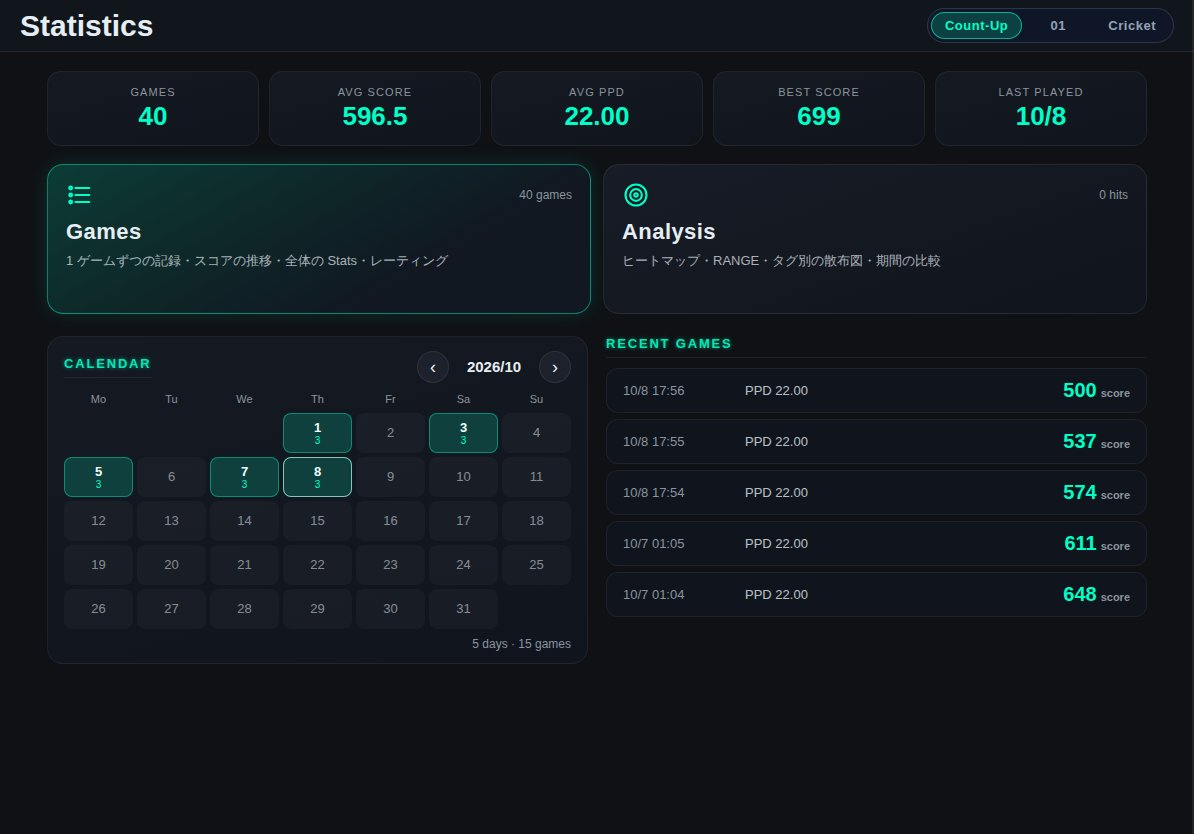
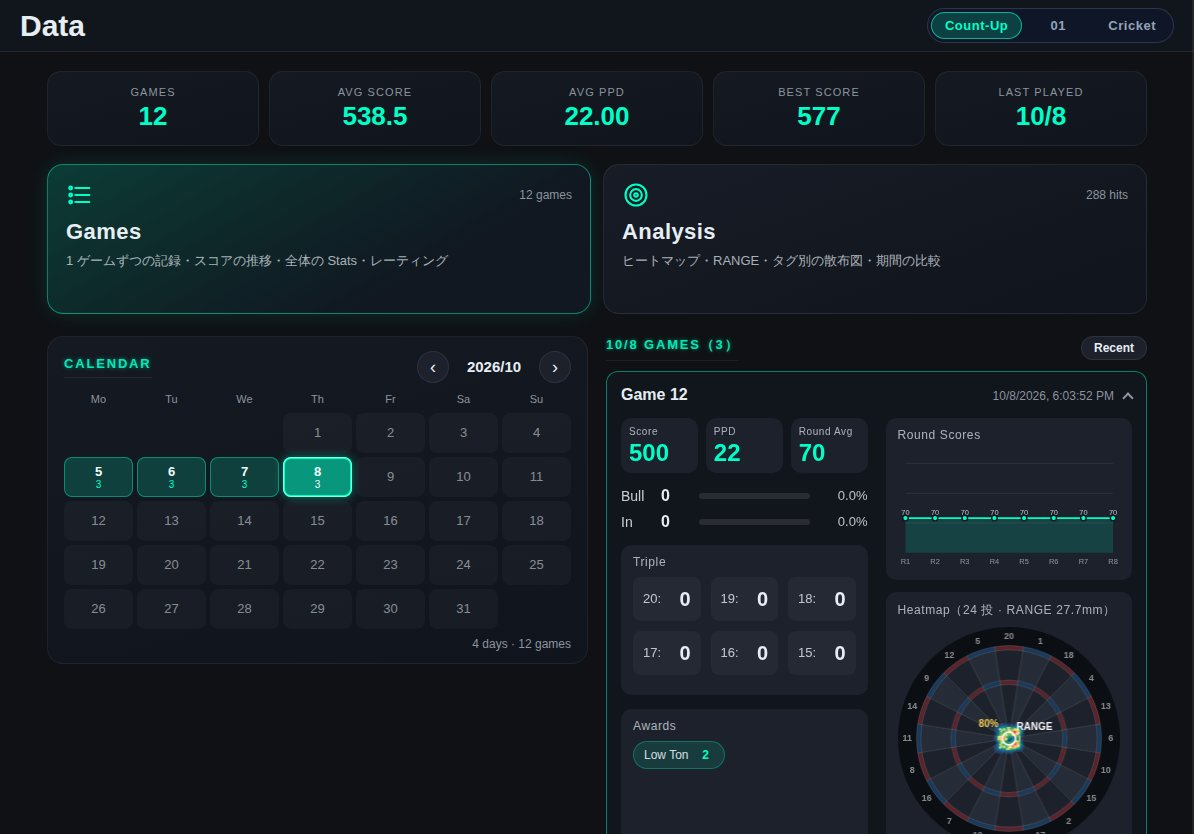
データ画面のカレンダーで日付を押すとその日のゲームを出す。見出しを Data に
練習した日を押すと、Recent Games の代わりにその日のゲームを Games 画面と同じ履歴カードで出す。
もう一度押すか Recent で戻す。見出しを Statistics から Data に変更（メニューの名前に合わせる）。

Claude-Session: https://claude.ai/code/session_01T46tqjmmnQtBio5EEUgC8y

diff --git a/js/data/data_hub.js b/js/data/data_hub.js
@@ -185,7 +185,7 @@ function renderDataHub() {
 
     <div class="data-hub-bottom">
       ${renderDataHubCalendar(type)}
-      ${renderDataHubRecent(type)}
+      ${dataHubSelectedDay ? renderDataHubDay(type) : renderDataHubRecent(type)}
     </div>
 
     ${type === "countup" ? "" : '<p class="data-hub-note">Analysis は、今は Count-Up の記録だけを集計しています。</p>'}
@@ -195,6 +195,27 @@ function renderDataHub() {
   hub.querySelectorAll("[data-hub-view]").forEach(btn => {
     btn.addEventListener("click", () => openDataView(btn.dataset.hubView))
   })
+
+  // 選んだ日のゲーム（Games 画面と同じ履歴カード。押すと開く）
+  if (dataHubSelectedDay) fillDataHubDay(type)
+
+  hub.querySelectorAll("[data-hub-day]").forEach(btn => {
+    btn.addEventListener("click", () => {
+      dataHubSelectedDay = dataHubSelectedDay === btn.dataset.hubDay ? null : btn.dataset.hubDay
+      renderDataHub()
+      // 縦に並んでいるとき（スマホ縦など）は、出したゲームの一覧が見えるところまで送る
+      const list = document.getElementById("dataHubDay")
+      if (list && !document.body.classList.contains("landscape")) list.scrollIntoView({ block: "start", behavior: "smooth" })
+    })
+  })
+
+  const close = hub.querySelector("[data-hub-day-close]")
+  if (close) {
+    close.addEventListener("click", () => {
+      dataHubSelectedDay = null
+      renderDataHub()
+    })
+  }
 
   hub.querySelectorAll("[data-hub-month]").forEach(btn => {
     btn.addEventListener("click", () => {
@@ -208,8 +229,49 @@ function renderDataHub() {
 // ===============================
 // ===== カレンダー ================
 // ===============================
-// 選んでいるゲームを練習した日に印を付ける（その日のゲーム数を小さく出す）。今は見るだけ。‹ › で月を切り替える
+// 選んでいるゲームを練習した日に印を付ける（その日のゲーム数を小さく出す）。‹ › で月を切り替える。
+// 練習した日を押すと、Recent Games の代わりにその日のゲーム（履歴カード）を出す。もう一度押すか Recent で戻す
 let dataHubCalendarMonth = null
+// カレンダーで選んだ日（"YYYY-MM-DD"）。選んでいる間は Recent Games の代わりにその日のゲームを出す
+let dataHubSelectedDay = null
+
+function getDataHubDayKey(time) {
+  const d = new Date(time)
+  return `${d.getFullYear()}-${String(d.getMonth() + 1).padStart(2, "0")}-${String(d.getDate()).padStart(2, "0")}`
+}
+
+// 選んだ日のゲームの一覧（中身は fillDataHubDay() で入れる）
+function renderDataHubDay(type) {
+  const sessions = getDataHubSessions(type).filter(s => getDataHubDayKey(s.date) === dataHubSelectedDay)
+  const [, m, d] = dataHubSelectedDay.split("-").map(Number)
+  return `
+    <section class="data-hub-recent data-hub-day" id="dataHubDay">
+      <div class="data-hub-day-top">
+        <h3 class="data-hub-section-title">${m}/${d} Games（${sessions.length}）</h3>
+        <button type="button" class="data-hub-day-close" data-hub-day-close>Recent</button>
+      </div>
+      <div id="dataHubDayList" class="data-hub-day-list"></div>
+    </section>
+  `
+}
+
+// 選んだ日のゲームを、Games 画面と同じ履歴カードで出す（Game の番号は全体の通し番号。新しい順）
+function fillDataHubDay(type) {
+
+  const box = document.getElementById("dataHubDayList")
+  if (!box) return
+
+  const all = getDataHubSessions(type)
+  const createHtml = type === "01"
+    ? createZeroOneCardHtml
+    : type === "cricket" ? createCricketCardHtml : createSessionCardHtml
+
+  all
+    .map((session, index) => ({ session, number: index + 1 }))
+    .filter(item => getDataHubDayKey(item.session.date) === dataHubSelectedDay)
+    .reverse()
+    .forEach(item => box.appendChild(createSessionCardElement(createHtml(item.session, item.number))))
+}
 
 function getDataHubSessions(type) {
   if (type === "01") return typeof readZeroOneSessions === "function" ? readZeroOneSessions() : []
@@ -254,9 +316,14 @@ function renderDataHubCalendar(type) {
     if (count) cls.push("played")
     if (count >= 5) cls.push("many")
     if (isThisMonth && today.getDate() === d) cls.push("today")
-    cells += `<span class="${cls.join(" ")}"${count ? ` title="${count} games"` : ""}>` +
-      `<span class="data-hub-cal-num">${d}</span>` +
-      `${count ? `<span class="data-hub-cal-count">${count}</span>` : ""}</span>`
+    const key = `${year}-${String(month + 1).padStart(2, "0")}-${String(d).padStart(2, "0")}`
+    if (key === dataHubSelectedDay) cls.push("selected")
+    const inner = `<span class="data-hub-cal-num">${d}</span>` +
+      `${count ? `<span class="data-hub-cal-count">${count}</span>` : ""}`
+    // 練習した日は押すとその日のゲームを出す
+    cells += count
+      ? `<button type="button" class="${cls.join(" ")}" data-hub-day="${key}" aria-label="${month + 1}/${d} ${count} games">${inner}</button>`
+      : `<span class="${cls.join(" ")}">${inner}</span>`
   }
 
   return `
@@ -366,11 +433,22 @@ function openDataView(mode) {
 // ヘッダーのゲームの切り替え：トップを出しているときは、トップの中身だけ描き直す
 const setDataGameTypeForViews = typeof setDataGameType === "function" ? setDataGameType : null
 window.setDataGameType = function (type) {
+  if (dataHubOpen && type !== dataGameType) dataHubSelectedDay = null
   if (setDataGameTypeForViews) setDataGameTypeForViews(type)
   if (dataHubOpen) renderDataHub()
 }
 
 function initDataHub() {
+  // トップの履歴カード（選んだ日のゲーム）も、押すと開く（data_loader.js の toggleSessionCard()）
+  const hub = document.getElementById("dataHub")
+  if (hub && !hub.dataset.ready) {
+    hub.dataset.ready = "1"
+    hub.addEventListener("click", e => {
+      const card = e.target instanceof Element ? e.target.closest(".session-card") : null
+      if (card && hub.contains(card)) toggleSessionCard(card)
+    })
+  }
+
   const back = document.getElementById("dataHubBack")
   if (back && !back.dataset.ready) {
     back.dataset.ready = "1"

diff --git a/css/layout/lay_data.css b/css/layout/lay_data.css
@@ -2173,18 +2173,21 @@ body.page-data.phone.portrait main.data-container {
   タップで .is-expanded が付き、ブル率・トリプル・ラウンドスコア・アワードをすべて表示する。
   端末別の指定より優先させるため #sessionsContainer から指定する。
 */
-#sessionsContainer .session-card {
+#sessionsContainer .session-card,
+#dataHubDayList .session-card {
   cursor: pointer;
   -webkit-tap-highlight-color: transparent;
   transition: border-color 0.15s ease, background 0.15s ease;
 }
 
-#sessionsContainer .session-card:focus-visible {
+#sessionsContainer .session-card:focus-visible,
+#dataHubDayList .session-card:focus-visible {
   outline: 2px solid rgb(var(--accent-rgb) / 0.7);
   outline-offset: 2px;
 }
 
-#sessionsContainer .session-card.is-expanded {
+#sessionsContainer .session-card.is-expanded,
+#dataHubDayList .session-card.is-expanded {
   border-color: rgb(var(--accent-rgb) / 0.45);
 }
 
@@ -2204,7 +2207,8 @@ body.page-data.phone.portrait main.data-container {
   transition: transform 0.2s ease;
 }
 
-#sessionsContainer .session-card.is-expanded .session-toggle-icon {
+#sessionsContainer .session-card.is-expanded .session-toggle-icon,
+#dataHubDayList .session-card.is-expanded .session-toggle-icon {
   transform: translateY(2px) rotate(-135deg);
 }
 
@@ -2216,33 +2220,42 @@ body.page-data.phone.portrait main.data-container {
 
 /* 縮小表示：KPI と要約だけ
    （縦向きではカード全体をグリッドで割り付けているため、縮小時は通常の縦並びに戻す） */
-#sessionsContainer .session-card:not(.is-expanded) {
+#sessionsContainer .session-card:not(.is-expanded),
+#dataHubDayList .session-card:not(.is-expanded) {
   display: block;
 }
 
-#sessionsContainer .session-card:not(.is-expanded) .session-card-header {
+#sessionsContainer .session-card:not(.is-expanded) .session-card-header,
+#dataHubDayList .session-card:not(.is-expanded) .session-card-header {
   margin-bottom: 10px;
 }
 
-#sessionsContainer .session-card:not(.is-expanded) .session-card-body {
+#sessionsContainer .session-card:not(.is-expanded) .session-card-body,
+#dataHubDayList .session-card:not(.is-expanded) .session-card-body {
   display: block;
 }
 
-#sessionsContainer .session-card:not(.is-expanded) .session-main-block {
+#sessionsContainer .session-card:not(.is-expanded) .session-main-block,
+#dataHubDayList .session-card:not(.is-expanded) .session-main-block {
   display: flex;
   flex-direction: column;
   gap: 10px;
 }
 
 #sessionsContainer .session-card:not(.is-expanded) .session-rate-group,
+#dataHubDayList .session-card:not(.is-expanded) .session-rate-group,
 #sessionsContainer .session-card:not(.is-expanded) .session-triple-block,
+#dataHubDayList .session-card:not(.is-expanded) .session-triple-block,
 #sessionsContainer .session-card:not(.is-expanded) .session-side-block,
-#sessionsContainer .session-card:not(.is-expanded) .session-awards-block {
+#dataHubDayList .session-card:not(.is-expanded) .session-side-block,
+#sessionsContainer .session-card:not(.is-expanded) .session-awards-block,
+#dataHubDayList .session-card:not(.is-expanded) .session-awards-block {
   display: none;
 }
 
 /* 全項目表示：要約は不要 */
-#sessionsContainer .session-card.is-expanded .session-compact-summary {
+#sessionsContainer .session-card.is-expanded .session-compact-summary,
+#dataHubDayList .session-card.is-expanded .session-compact-summary {
   display: none;
 }
 
@@ -2259,7 +2272,9 @@ body.page-data.phone.portrait main.data-container {
 }
 
 #sessionsContainer .session-card.is-expanded .session-card-body,
-#sessionsContainer .session-card.is-expanded .session-awards-block {
+#dataHubDayList .session-card.is-expanded .session-card-body,
+#sessionsContainer .session-card.is-expanded .session-awards-block,
+#dataHubDayList .session-card.is-expanded .session-awards-block {
   animation: sessionCardExpand 0.2s ease both;
 }
 
@@ -2782,7 +2797,8 @@ body.data-01 .detail-bull-rate-bar-fill.inner {
 }
 
 /* 閉じているカードでは出さない */
-#sessionsContainer .session-card:not(.is-expanded) .session-heatmap-block {
+#sessionsContainer .session-card:not(.is-expanded) .session-heatmap-block,
+#dataHubDayList .session-card:not(.is-expanded) .session-heatmap-block {
   display: none;
 }
 
@@ -3074,6 +3090,50 @@ body.page-data.data-hub-open main.data-container {
   line-height: 1;
   color: var(--accent);
   font-variant-numeric: tabular-nums;
+}
+
+/* 練習した日は押せる（その日のゲームを出す） */
+button.data-hub-cal-day {
+  width: 100%;
+  padding: 0;
+  border: none;
+  font: inherit;
+  cursor: pointer;
+}
+
+.data-hub-cal-day.selected {
+  background: rgb(var(--accent-rgb) / 0.55);
+  box-shadow: inset 0 0 0 2px var(--accent), 0 0 10px rgb(var(--accent-rgb) / 0.45);
+}
+
+.data-hub-cal-day.selected .data-hub-cal-count {
+  color: #effffb;
+}
+
+/* 選んだ日のゲーム */
+.data-hub-day-top {
+  display: flex;
+  justify-content: space-between;
+  align-items: center;
+  gap: 10px;
+  margin-bottom: 10px;
+}
+
+.data-hub-day-top .data-hub-section-title {
+  margin: 0;
+}
+
+.data-hub-day-close {
+  padding: 4px 12px;
+  border-radius: 999px;
+  font-size: 12px;
+  font-weight: 700;
+}
+
+.data-hub-day-list {
+  display: flex;
+  flex-direction: column;
+  gap: 10px;
 }
 
 .data-hub-cal-day.today {

diff --git a/js/ui/news.js b/js/ui/news.js
@@ -269,6 +269,11 @@ const INFO_CONTENT = {
       date: "2026/10/08",
       badge: "UI",
       text: "データ画面を Games と Analysis の 2 つに絞りました。Day / Week / Month / Year は一旦お休みにし、トップに練習した日のカレンダーを表示します。"
+    },
+    {
+      date: "2026/10/08",
+      badge: "機能追加",
+      text: "データ画面のカレンダーで、練習した日を押すとその日のゲームが見られるようになりました。データ画面の見出しを Data に変えました。"
     }
   ],
   notice: [

diff --git a/data.html b/data.html
@@ -40,7 +40,7 @@
     <header class="header">
       <!-- 各画面からトップ（data_hub.js）に戻る -->
       <button type="button" id="dataHubBack" class="data-hub-back" hidden>‹ Top</button>
-      <h1>Statistics</h1>
+      <h1>Data</h1>
       <!-- 表示するゲームの切り替え（data_01.js の initDataGameSwitch()） -->
       <div id="dataGameSwitch" class="data-game-switch" role="tablist" aria-label="ゲームの種類">
         <button type="button" data-game="countup">Count-Up</button>

diff --git a/sw.js b/sw.js
@@ -1,5 +1,5 @@
-const APP_CACHE = "darts-app-v81"
-const RUNTIME_CACHE = "darts-runtime-v81"
+const APP_CACHE = "darts-app-v82"
+const RUNTIME_CACHE = "darts-runtime-v82"
 
 const PRECACHE_URLS = [
   "./",
